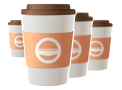
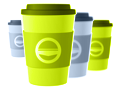
Style the enhancements with colour

diff --git a/source/stylesheets/site.css.scss b/source/stylesheets/site.css.scss
@@ -84,14 +84,14 @@ body {
 }
 
 .enhancement {
-  border: 1px solid #666666;
+  border: 3px solid #dddddd;
   padding: 0.5em;
   height: 100px;
   margin-bottom: 1em;
 }
 
 .highlighted {
-  background: #B3FCE3;
+  border: 3px solid #06D57E;
 }
 
 .is-centered {
